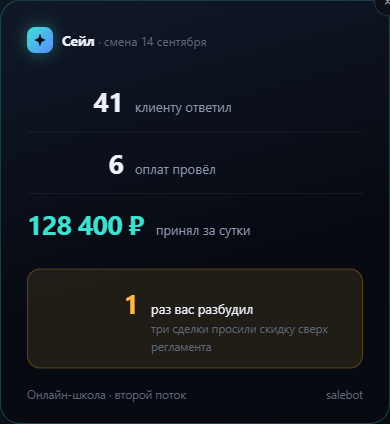
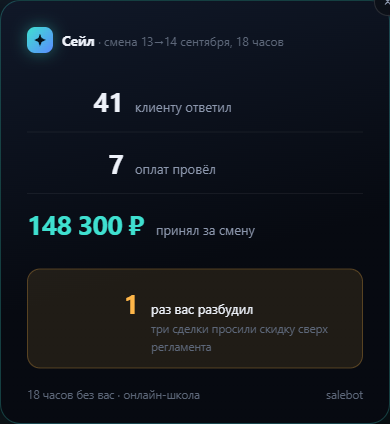
Сведены окна времени: смена, сутки, поток
На экране было четыре несогласованных окна («на смене 6 ч 12 мин»,
«с 22:00 до 16:00», «за сутки», «7 дней»), и одно число стояло
и в шапке, и в плитке.

- шапка и лента считают смену — отрезок вашего отсутствия (18 ч);
- плитки и сводка — стабильные окна, у каждой подпись:
  сутки · поток · сейчас · 7 дней;
- «Деньги · сутки» 141 200 ₽ отличаются от «принял за смену» 128 400 ₽,
  прирост общий;
- кнопка «Принять смену» закрывает смену прямо в прототипе:
  экран переключается на «с вами», Сейл перестаёт копить в отчёт;
- постер снимает текущие цифры, а не заготовку;
- на странице — раздел «Что такое смена и откуда считается её начало»:
  правило, порог в три часа, краевые случаи, два сорта чисел.

diff --git a/screen.html b/screen.html
@@ -73,6 +73,8 @@
     border:1px solid var(--line2);background:rgba(255,255,255,.04);color:var(--ink);
     font-size:13px;font-weight:620;cursor:pointer}
   .share:hover{border-color:var(--acc);color:var(--acc)}
+  .share.accept{border-color:rgba(63,224,208,.32);color:var(--acc)}
+  .share.accept[disabled]{border-color:rgba(74,222,128,.4);color:var(--ok);cursor:default;opacity:1}
 
   .lede{font-size:13px;color:var(--mut);margin-bottom:7px}
   .figs{display:flex;align-items:flex-end;gap:26px;flex-wrap:wrap}
@@ -91,6 +93,7 @@
   @keyframes halo{0%,100%{box-shadow:0 0 0 0 rgba(255,182,72,.16)}50%{box-shadow:0 0 22px 0 rgba(255,182,72,.16)}}
   .tl{display:flex;justify-content:space-between;align-items:baseline;margin-bottom:3px}
   .tl span{font-size:11px;text-transform:uppercase;letter-spacing:.1em;color:var(--faint);font-weight:700}
+  .tl span i{font-style:normal;font-weight:600;opacity:.62}
   .tv{font-size:24px;font-weight:720;letter-spacing:-.03em;line-height:1.15}
   .tdelta{font-size:11.5px;font-weight:650;color:var(--ok)}
   .spark{height:22px;margin:5px 0 7px;width:100%}
@@ -216,23 +219,27 @@
         <div class="ava"><svg viewBox="0 0 24 24" fill="#06121A"><path d="M12 2l2.6 6.8L21.4 12l-6.8 3.2L12 22l-2.6-6.8L2.6 12l6.8-3.2z"/></svg></div>
         <div>
           <div class="who">Сейл</div>
-          <div class="onair"><i class="dot"></i> на смене 6 ч 12 мин</div>
+          <div class="onair" id="onair" title="Смена — это время, пока вас не было"><i class="dot"></i> смена идёт 18 ч 00 мин</div>
         </div>
         <svg class="wave" viewBox="0 0 104 22" preserveAspectRatio="none">
           <path class="base" d="M0 11h12l4-8 5 16 5-12 4 4h13l4-7 5 14 5-11 4 4h13l4-6 5 12 3-6h15"/>
           <path class="live" d="M0 11h12l4-8 5 16 5-12 4 4h13l4-7 5 14 5-11 4 4h13l4-6 5 12 3-6h15"/>
         </svg>
         <div class="spacer"></div>
+        <button class="share accept" id="acceptBtn">
+          <svg width="14" height="14" viewBox="0 0 24 24" fill="none" stroke="currentColor" stroke-width="2.2"><path d="M4 12.5l5.5 5.5L20 7"/></svg>
+          Принять смену
+        </button>
         <button class="share" id="shareBtn">
           <svg width="14" height="14" viewBox="0 0 24 24" fill="none" stroke="currentColor" stroke-width="2"><path d="M12 16V4M8 8l4-4 4 4M4 16v3a1 1 0 001 1h14a1 1 0 001-1v-3"/></svg>
           Поделиться сменой
         </button>
       </div>
-      <div class="lede">Пока вас не было — с 22:00 до 16:00</div>
+      <div class="lede" id="lede">Пока вас не было — с 22:00 вчера до 16:00 сегодня</div>
       <div class="figs">
         <div class="fig"><b id="fAns">41</b><span>ОТВЕТИЛ</span></div>
         <div class="fig"><b id="fPay">6</b><span>ОПЛАТ ПРИНЯЛ</span></div>
-        <div class="fig hero"><b id="fRub">128 400 ₽</b><span>ВЫРУЧКА ЗА СУТКИ</span></div>
+        <div class="fig hero"><b id="fRub">128 400 ₽</b><span>ПРИНЯЛ ЗА СМЕНУ</span></div>
         <div class="fig"><b id="fBack">3</b><span>ВЕРНУЛ УШЕДШИХ</span></div>
         <div class="fig wake"><b>1</b><span>РАЗ РАЗБУДИЛ ВАС</span></div>
       </div>
@@ -240,8 +247,8 @@
 
     <section class="pulse">
       <div class="tile">
-        <div class="tl"><span>Деньги</span><b class="tdelta">+18%</b></div>
-        <div class="tv" id="tRub">128 400 ₽</div>
+        <div class="tl"><span>Деньги <i>· сутки</i></span><b class="tdelta">+18% к прошлой неделе</b></div>
+        <div class="tv" id="tRub">141 200 ₽</div>
         <svg class="spark" viewBox="0 0 120 22" preserveAspectRatio="none">
           <path class="fillp" d="M0 18L15 16L30 17L45 11L60 13L75 8L90 9L105 4L120 3V22H0z"/>
           <path d="M0 18L15 16L30 17L45 11L60 13L75 8L90 9L105 4L120 3"/>
@@ -251,7 +258,7 @@
       </div>
 
       <div class="tile">
-        <div class="tl"><span>Доходимость</span><b class="tdelta">63%</b></div>
+        <div class="tl"><span>Доходимость <i>· поток</i></span><b class="tdelta">63%</b></div>
         <div class="tv">11 <span style="font-size:14px;color:var(--faint);font-weight:500">застряли</span></div>
         <svg class="spark" viewBox="0 0 120 22" preserveAspectRatio="none">
           <path class="fillp" d="M0 4L20 5L40 9L60 8L80 14L100 13L120 17V22H0z"/>
@@ -262,18 +269,18 @@
       </div>
 
       <div class="tile">
-        <div class="tl"><span>Обращения</span><b class="tdelta" style="color:var(--faint)">41 за сутки</b></div>
+        <div class="tl"><span>Обращения <i>· сутки</i></span><b class="tdelta" style="color:var(--faint)">47</b></div>
         <div class="tv">0 <span style="font-size:14px;color:var(--faint);font-weight:500">без ответа</span></div>
         <svg class="spark" viewBox="0 0 120 22" preserveAspectRatio="none">
           <path class="fillp" d="M0 14L20 10L40 12L60 6L80 9L100 5L120 8V22H0z"/>
           <path d="M0 14L20 10L40 12L60 6L80 9L100 5L120 8"/>
         </svg>
-        <div class="tsay">Среднее время до ответа — <b>9 секунд</b>. Ночью было 14 обращений, все закрыты.</div>
+        <div class="tsay">Среднее время до ответа — <b>9 секунд</b>. Из сорока семи сорок один пришлись на смену, все закрыты.</div>
         <div class="tquiet">Делать нечего — и это хорошо</div>
       </div>
 
       <div class="tile alert">
-        <div class="tl"><span>Молчат</span><b class="tdelta" style="color:var(--warn)">9</b></div>
+        <div class="tl"><span>Молчат <i>· сейчас</i></span><b class="tdelta" style="color:var(--warn)">9 всего</b></div>
         <div class="tv">6 <span style="font-size:14px;color:var(--faint);font-weight:500">осталось</span></div>
         <svg class="spark" viewBox="0 0 120 22" preserveAspectRatio="none">
           <path class="fillp" style="fill:rgba(255,182,72,.13)" d="M0 8L20 9L40 7L60 11L80 10L100 14L120 15V22H0z"/>
@@ -376,13 +383,13 @@
     <button class="close" id="closeBtn">×</button>
     <div class="ph">
       <div class="ava"><svg viewBox="0 0 24 24" fill="#06121A"><path d="M12 2l2.6 6.8L21.4 12l-6.8 3.2L12 22l-2.6-6.8L2.6 12l6.8-3.2z"/></svg></div>
-      <div><b>Сейл</b> <span>· смена 14 сентября</span></div>
+      <div><b>Сейл</b> <span>· смена 13→14 сентября, 18 часов</span></div>
     </div>
-    <div class="prow"><b>41</b><span>клиенту ответил</span></div>
-    <div class="prow"><b>6</b><span>оплат провёл</span></div>
-    <div class="prow" style="border:0"><b style="color:var(--acc)">128 400 ₽</b><span>принял за сутки</span></div>
+    <div class="prow"><b id="pAns">41</b><span>клиенту ответил</span></div>
+    <div class="prow"><b id="pPay">6</b><span>оплат провёл</span></div>
+    <div class="prow" style="border:0"><b id="pRub" style="color:var(--acc)">128 400 ₽</b><span>принял за смену</span></div>
     <div class="pwake"><b>1</b><span>раз вас разбудил<i>три сделки просили скидку сверх регламента</i></span></div>
-    <div class="pf"><span>Онлайн-школа · второй поток</span><span>salebot</span></div>
+    <div class="pf"><span>18 часов без вас · онлайн-школа</span><span>salebot</span></div>
   </div>
 </div>
 
@@ -392,15 +399,21 @@
   const inp  = document.getElementById('inp');
 
   // ── деньги тикают: экран живёт без вас ───────────────────
-  const rub = [document.getElementById('fRub'), document.getElementById('tRub')];
-  let money = 128400;
+  // Шапка считает смену (18 ч без вас), плитка — календарные сутки.
+  // Это разные окна, поэтому и числа разные; прирост общий.
+  const elShift = document.getElementById('fRub');
+  const elDay   = document.getElementById('tRub');
+  let mShift = 128400, mDay = 141200;
   const fmt = n => n.toLocaleString('ru-RU') + ' ₽';
   function bump(add){
-    const to = money + add, step = Math.max(1, Math.round(add/18));
+    const toS = mShift + add, toD = mDay + add, step = Math.max(1, Math.round(add/18));
     const t = setInterval(() => {
-      money = Math.min(to, money + step);
-      rub.forEach(e => e.textContent = fmt(money));
-      if (money >= to) clearInterval(t);
+      mShift = Math.min(toS, mShift + step);
+      mDay   = Math.min(toD, mDay + step);
+      elShift.textContent = fmt(mShift);
+      elDay.textContent   = fmt(mDay);
+      document.getElementById('pRub').textContent = fmt(mShift);
+      if (mShift >= toS) clearInterval(t);
     }, 28);
   }
 
@@ -526,9 +539,29 @@
   document.getElementById('sendBtn').addEventListener('click', send);
   inp.addEventListener('keydown', e => { if (e.key === 'Enter') send(); });
 
+  // ── сдача смены: она закрывается, когда вы приняли дела ──
+  document.getElementById('acceptBtn').addEventListener('click', function(){
+    if (this.disabled) return;
+    this.disabled = true;
+    this.innerHTML = '&#10003; смена сдана';
+    document.getElementById('lede').innerHTML =
+      '<b style="color:var(--ink);font-weight:620">Смена сдана в 16:04.</b> ' +
+      'Итог за 18 ч 04 мин — ниже. Дальше работаю при вас: буду спрашивать сразу, а не копить в отчёт.';
+    document.getElementById('onair').innerHTML =
+      '<i class="dot" style="background:var(--ok);animation:none"></i> с вами с 16:04';
+    document.querySelectorAll('.fig span').forEach(e => { e.style.opacity = .62; });
+    addEv('Смена сдана',
+      'Принял. Новую смену открою, когда вы уйдёте, — а до тех пор всё показываю сразу, без отчёта.');
+  });
+
   // ── постер ───────────────────────────────────────────────
   const veil = document.getElementById('veil');
-  document.getElementById('shareBtn').addEventListener('click', () => veil.classList.add('on'));
+  document.getElementById('shareBtn').addEventListener('click', () => {
+    // постер — снимок текущей смены, а не заготовка
+    document.getElementById('pAns').textContent = document.getElementById('fAns').textContent;
+    document.getElementById('pPay').textContent = document.getElementById('fPay').textContent;
+    veil.classList.add('on');
+  });
   document.getElementById('closeBtn').addEventListener('click', () => veil.classList.remove('on'));
   veil.addEventListener('click', e => { if (e.target === veil) veil.classList.remove('on'); });
 

diff --git a/index.html b/index.html
@@ -124,6 +124,7 @@
   <a href="#before">Что не так</a>
   <a href="#after">Что стало</a>
   <a href="#diff">До и после</a>
+  <a href="#shift">Что такое смена</a>
   <a href="#how">Как устроено</a>
   <a href="#viral">Заскринить</a>
   <a href="#biz">Разные бизнесы</a>
@@ -200,6 +201,9 @@
     один попросит счёт, выручка вырастет на глазах, а плитка погаснет в ноль.
     Через девять секунд после открытия придёт оплата, которую никто не просил:
     <strong>экран работает и без вас</strong>.</p>
+    <p style="margin-top:12px">А кнопка <strong>«Принять смену»</strong> в шапке закрывает смену:
+    экран переключается с «пока вас не было» на «с вами», и дальше Сейл спрашивает сразу,
+    а не копит в отчёт. Что это значит — в следующем разделе.</p>
   </div>
 </div></section>
 
@@ -238,6 +242,73 @@
       <td>Убрана</td>
     </tr>
   </table>
+</div></section>
+
+<section id="shift"><div class="wrap">
+  <h2>Что такое смена и откуда считается её начало</h2>
+  <p>Слово выбрано не ради красоты — оно задаёт жанр. Мастер настройки меряет вас чек-листом:
+  сколько вы не сделали. Сотрудник приходит и <strong>сдаёт смену</strong>: вот что сделал я.
+  Отсюда всё остальное.</p>
+
+  <ul class="t">
+    <li>Единица контента — <b>сделанное действие</b>, а не невыполненный шаг</li>
+    <li>Отчётность идёт в одну сторону: не «вот цифры, думайте сами», а
+    <b>«вот цифра, вот что я по ней сделал, вот где упёрся»</b></li>
+    <li>Главная метрика — <b>не потребовавшееся участие</b>. «1 раз вас разбудил» — это
+    мера того, сколько раз пришлось звать человека</li>
+  </ul>
+
+  <blockquote>Смена — это отрезок вашего отсутствия. Она существует только потому,
+  что вас не было: пока вы спали, ехали, вели урок — кто-то работал.
+  Экран и есть момент сдачи дел.</blockquote>
+
+  <h3 style="margin-top:30px">Правило</h3>
+  <p><strong>Смена начинается, когда вы ушли, и закрывается, когда вы вернулись и приняли дела.</strong>
+  Как сдача смены у сменного врача: ночной уходит, дневной принимает.</p>
+  <ul class="t">
+    <li><b>Ушли</b> — последняя активность в кабинете. Не выход из аккаунта, а последнее действие</li>
+    <li><b>Вернулись</b> — открыли экран после перерыва <b>не меньше трёх часов</b>.
+    Заглянули на двадцать минут — вы никуда не уходили: смена та же, в неё просто
+    добавляются события</li>
+    <li><b>Закрытая смена</b> уходит в историю и становится постером. Их можно листать назад
+    и сравнивать</li>
+  </ul>
+
+  <h3 style="margin-top:30px">Краевые случаи</h3>
+  <table>
+    <tr><th>Ситуация</th><th>Что показывает экран</th></tr>
+    <tr><td>Вы весь день в кабинете</td>
+      <td>Смены нет. Шапка говорит «сегодня с вами» и показывает сутки. Сейл спрашивает сразу,
+      а не копит в отчёт. Отчёт появится завтра утром</td></tr>
+    <tr><td>Не заходили три дня</td>
+      <td>Смена длинная: «вас не было 3 дня». События сворачиваются в сводные карточки —
+      не двести строк, а «ответил 118, записал 14, трижды не смог без вас»</td></tr>
+    <tr><td>Первый день, проект пустой</td>
+      <td>Смены ещё не было. Вместо неё — сборка: Сейл строит ваше дело построчно,
+      с объектом и ценой в каждой строке</td></tr>
+    <tr><td>Проект мёртвый, клиентов нет</td>
+      <td>Смена есть, но пустая. Вместо нулей — «клиентов не было; хотите, разбужу старых?».
+      Пустота становится предложением, а не упрёком</td></tr>
+  </table>
+
+  <h3 style="margin-top:30px">Два сорта чисел, и их нельзя мешать</h3>
+  <p>Это главное следствие правила — и место, где легче всего соврать самому себе.</p>
+  <table>
+    <tr><th>Где</th><th>Какое окно и почему</th></tr>
+    <tr><td><strong>Шапка и лента</strong> — отчёт смены</td>
+      <td><strong>Плавающее окно вашего отсутствия.</strong> Это и есть отчёт, он обязан отвечать
+      на вопрос «что было, пока меня не было». В нашем кадре — 18 часов, с 22:00 вчера
+      до 16:00 сегодня, и 128 400 ₽ подписаны «принял за смену»</td></tr>
+    <tr><td><strong>Плитки и сводка</strong> — ориентиры</td>
+      <td><strong>Стабильные календарные окна:</strong> сутки, неделя, поток. Их нужно сравнивать
+      день к дню, иначе «+18%» ничего не значит. Поэтому в плитке «Деньги · сутки» стоит
+      141 200 ₽ — <strong>другое число</strong>, и так и должно быть: разница пришла вечером,
+      когда вы ещё были на месте</td></tr>
+  </table>
+  <p style="margin-top:18px">Отсюда и счётчик в шапке. Он показывает не абстрактный аптайм,
+  а <strong>длительность текущей смены</strong> — то есть сколько вас не было.
+  Каждое окно на экране подписано своим словом: <em>смена · сутки · поток · сейчас · 7 дней</em>.
+  Ни одно число не висит без периода.</p>
 </div></section>
 
 <section id="how"><div class="wrap">
